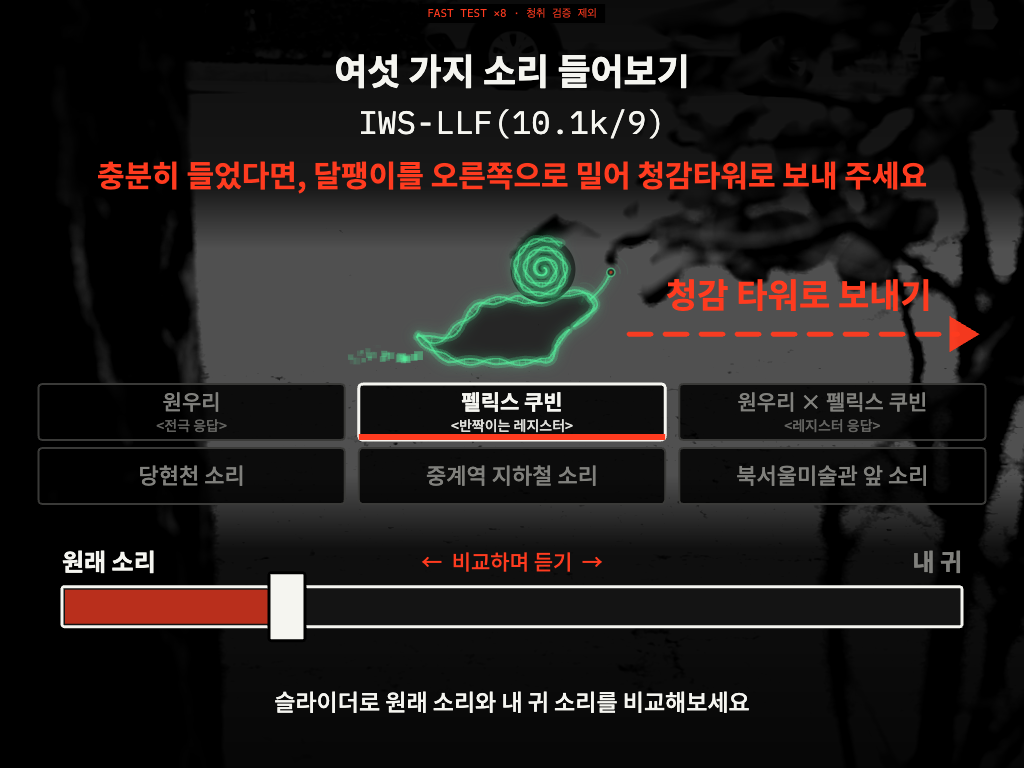
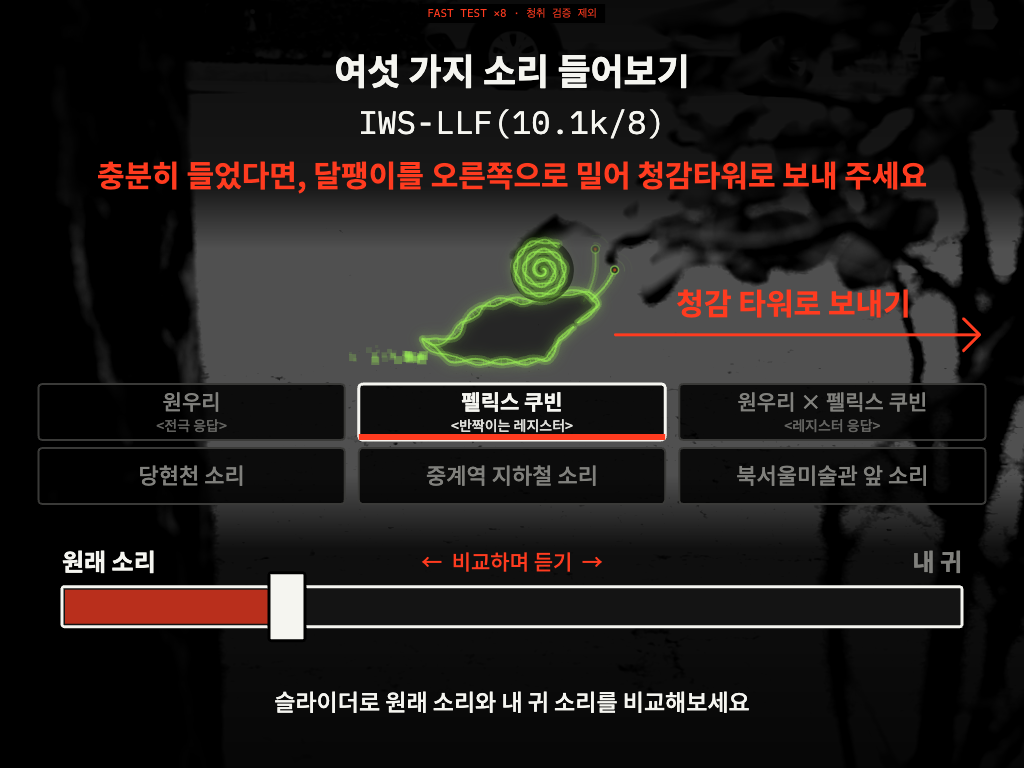
feat(music): minimal line arrow for 'send to the Hearing Tower'

Changed region(s): [[0.3438, 0.3125, 0.9688, 0.5], [0.5938, 0.1562, 0.625, 0.1875]]

diff --git a/docs/music-tower-update-2026-11-22.html b/docs/music-tower-update-2026-11-22.html
@@ -8,7 +8,7 @@
 <tr><td style="border:1px solid #999;padding:5px 8px">청감타워 안내가 나오는 때</td><td style="border:1px solid #999;padding:5px 8px">감상 시작 60초 뒤</td><td style="border:1px solid #999;padding:5px 8px">고른 곡을 처음부터 <b>한 번 끝까지</b> 들었을 때. 곡을 바꾸면 그 곡 기준으로 다시 셈. 한 번 뜨면 곡을 바꿔도 남음</td><td style="border:1px solid #999;padding:5px 8px">작가·사용자</td></tr>
 <tr><td style="border:1px solid #999;padding:5px 8px">곡을 안 고르고 자동으로 넘어갈 때</td><td style="border:1px solid #999;padding:5px 8px">60초 뒤</td><td style="border:1px solid #999;padding:5px 8px">여섯 곳을 한 바퀴(15초 × 6 = 90초) 돈 뒤</td><td style="border:1px solid #999;padding:5px 8px">Claude 초안</td></tr>
 <tr><td style="border:1px solid #999;padding:5px 8px">안내 문구 크기</td><td style="border:1px solid #999;padding:5px 8px">23px</td><td style="border:1px solid #999;padding:5px 8px">빨간 굵은 30px (영어처럼 두 줄이 되면 25px)</td><td style="border:1px solid #999;padding:5px 8px">작가(크게) · 크기는 Claude</td></tr>
-<tr><td style="border:1px solid #999;padding:5px 8px">화살표</td><td style="border:1px solid #999;padding:5px 8px">달팽이 옆 작은 →</td><td style="border:1px solid #999;padding:5px 8px">다 들은 뒤 달팽이 오른쪽에 <b>‘———&gt; 청감 타워로 보내기’</b>: 오른쪽으로 흐르는 빨간 점선 화살표와 34px 글자. 0.9초 동안 늘어나며 등장, 은은하게 깜빡임. 그 전에는 예전처럼 작은 →</td><td style="border:1px solid #999;padding:5px 8px">작가(화살표) · 모양은 Claude</td></tr>
+<tr><td style="border:1px solid #999;padding:5px 8px">화살표</td><td style="border:1px solid #999;padding:5px 8px">달팽이 옆 작은 →</td><td style="border:1px solid #999;padding:5px 8px">다 들은 뒤 달팽이 오른쪽에 <b>미니멀한 화살표 + ‘청감 타워로 보내기’</b>(30px): 가는 빨간 선 하나와 열린 화살촉. 0.9초 동안 오른쪽으로 뻗으며 등장하고, 그 뒤 화살촉 쪽이 오른쪽으로 살짝(8px) 까딱임. (점선 ‘———&gt;’은 글자처럼 보이고, 면 화살표·빛 효과는 과해서 사용자 지시로 미니멀하게) 그 전에는 예전처럼 작은 →</td><td style="border:1px solid #999;padding:5px 8px">작가(화살표) · 모양은 Claude</td></tr>
 <tr><td style="border:1px solid #999;padding:5px 8px">음성 안내</td><td style="border:1px solid #999;padding:5px 8px">없음</td><td style="border:1px solid #999;padding:5px 8px">다 들은 순간 한 번 <b>자막만</b> 나옴(<code>m9-8</code>). 녹음이 오면 파일만 넣으면 소리도 나옴. 터치를 막지 않아 바로 밀어 보내도 됨</td><td style="border:1px solid #999;padding:5px 8px">사용자(녹음 전 자막만)</td></tr>
 <tr><td style="border:1px solid #999;padding:5px 8px">아래쪽 도움말</td><td style="border:1px solid #999;padding:5px 8px">‘달팽이를 오른쪽으로 밀면 청감타워로 가요’ 항상</td><td style="border:1px solid #999;padding:5px 8px">큰 안내가 뜬 뒤에는 같은 말이라 뺌</td><td style="border:1px solid #999;padding:5px 8px">Claude</td></tr>
 <tr><td style="border:1px solid #999;padding:5px 8px">분석 화면 ‘음악 들으러 가기 →’</td><td style="border:1px solid #999;padding:5px 8px">보통 굵기 최대 24px</td><td style="border:1px solid #999;padding:5px 8px">굵게 최대 34px, 밑줄 굵게</td><td style="border:1px solid #999;padding:5px 8px">작가 요청 · 크기는 Claude</td></tr>

diff --git a/visuals.js b/visuals.js
@@ -1590,25 +1590,25 @@ function drawMusic(L) {
   drawResultControls(L, a);
 }
 
-// 달팽이 오른쪽에서 화면 오른쪽 끝(포탈이 열리는 쪽)까지 흐르는 점선 화살표와 '청감 타워로 보내기' (모양·크기는 Claude가 정함)
+// 달팽이 오른쪽에서 화면 오른쪽 끝(포탈이 열리는 쪽)까지 뻗는 화살표와 '청감 타워로 보내기' (모양·크기는 Claude가 정함).
+// 미니멀하게(11/22 사용자 지시): 가는 빨간 선 하나 + 열린 화살촉. 점선·빛 효과 없이, 화살촉 쪽만 오른쪽으로 살짝 까딱임
 let towerArrowAt = -1;
 function drawTowerArrow(L, a) {
   if (towerArrowAt < 0) towerArrowAt = millis();
   const grow = constrain((millis() - towerArrowAt) / 900, 0, 1), ease = 1 - Math.pow(1 - grow, 3);
-  const x0 = lastShape.cx + cur.R0 * 2.4, xEnd = width - L.m - 6, y = lastShape.cy;
+  const x0 = lastShape.cx + cur.R0 * 2.4, xEnd = width - L.m - 14, y = lastShape.cy;
   if (xEnd - x0 < 80) return;
-  const x1 = lerp(x0, xEnd, ease), pulse = 0.75 + 0.25 * Math.sin(millis() / 320);
-  const ctx = drawingContext, col = rgba(COLORS.accent, (a / 255) * pulse);
+  const nudge = grow < 1 ? 0 : (0.5 - 0.5 * Math.cos((millis() - towerArrowAt) / 520)) * 8; // 다 뻗은 뒤 0~8px 왔다 갔다
+  const x1 = lerp(x0, xEnd, ease) + nudge;
+  const ctx = drawingContext;
   ctx.save();
-  ctx.strokeStyle = col; ctx.fillStyle = col; ctx.lineWidth = 5; ctx.lineCap = 'round';
-  ctx.setLineDash([22, 14]); ctx.lineDashOffset = -millis() / 18; // 점선이 오른쪽으로 흐름
-  ctx.beginPath(); ctx.moveTo(x0, y); ctx.lineTo(x1 - 22, y); ctx.stroke();
-  ctx.setLineDash([]);
-  ctx.beginPath(); ctx.moveTo(x1, y); ctx.lineTo(x1 - 30, y - 18); ctx.lineTo(x1 - 30, y + 18); ctx.closePath(); ctx.fill();
+  ctx.strokeStyle = rgba(COLORS.accent, a / 255); ctx.lineWidth = 3; ctx.lineCap = 'round'; ctx.lineJoin = 'round';
+  ctx.beginPath(); ctx.moveTo(x0, y); ctx.lineTo(x1, y); ctx.stroke();
+  ctx.beginPath(); ctx.moveTo(x1 - 16, y - 16); ctx.lineTo(x1, y); ctx.lineTo(x1 - 16, y + 16); ctx.stroke();
   ctx.restore();
   const text = t('music.towerArrow'), room = xEnd - x0;
-  const size = min(34, 34 * room / max(1, textW(text, 34, 700)));
-  label(text, (x0 + xEnd) / 2, y - 22, { size, weight: 700, c: COLORS.accent, a: a * ease, align: CENTER, valign: BOTTOM });
+  const size = min(30, 30 * room / max(1, textW(text, 30, 700)));
+  label(text, (x0 + xEnd) / 2, y - 16, { size, weight: 700, c: COLORS.accent, a: a * ease, align: CENTER, valign: BOTTOM });
 }
 
 function drawResultControls(L, a) {

diff --git a/CLAUDE.md b/CLAUDE.md
@@ -27,7 +27,7 @@
    - 완성 장면(밈 FX) → "저 됐어요!" → **"자, 당신의 청감 코드는…! 두두둥!"**(드럼롤) → 화면이 바뀌고 **코드만 크게**(효과음 뒤 한/영 녹음 조각으로 실제 코드를 읽음, 최소 2.6초) → 코드가 위로 올라가고 **동물 유형 제목('○○ 달팽이예요!', 11/22 원우리 작가 확정)과 한 줄 소개**, **항목별 분석 7줄**, 그 아래 빨간 **행동 한 줄**이 하나씩 나타남 → **10초 뒤 "이제 음악을 들으러 가볼까요?"** → 보고서 아래 '음악 들으러 가기 →' 클릭으로 감상 이동(11/22 작가 요청으로 글자 키움, 굵게 최대 34px).
    - 항목 순서: ⑦ 귀 손잡이 · ②③ 저음/고음 선호 · ⑤ 들리는 높이(+나이) · ① 크기 · ⑥ 가운데 · ④ 음역 · ⑧ 바탕음/배음. **나이 표현은 30대 이하로 나올 때만**(사용자 확정. 기준 16k = 10대, 15k = 20대, 14k = 30대는 Claude 초안, `copy.js`의 `HEARING_AGE`).
    - `m9-4`("자, 당신의 청감 코드는…! 두두둥!")는 11/13 녹음(`last_003`/`last_004`)으로 나오고 드럼롤 효과음도 그대로 함께 나옵니다(사용자 확정). `m9-5`(짜잔)·`m9-6`(특징 소개)은 녹음이 없어 **11/15에 안내에서 뺐습니다**(사용자 지시. 현재 코드 낭독은 `runResultReveal()`에서 `HearingCodeVoice.play()`로 연결). `m9-7`은 녹음이 있습니다(`last_001`/`last_002`의 첫 문장 "이제 음악을 들으러 가볼까요?"만 사용). "검사해 주셔서 감사합니다"(`m9-2`)는 뺐습니다(사용자 확정).
-5. **감상(MUSIC)** (11/13 원우리 작가 지시): **여섯 소리**를 3칸 × 2줄 버튼으로 고릅니다. 윗줄 = 원우리 / 펠릭스 쿠빈 / 원우리 × 펠릭스 쿠빈이고 **이름 아래에 곡 제목을 작게** 적습니다(<전극 응답> / <반짝이는 레지스터> / <레지스터 응답>, 11/15 작가 지시). 아랫줄 = 북서울 소리 3개로 **'당현천 소리 / 중계역 지하철 소리 / 북서울미술관 앞 소리'**라고 적습니다(water, train-go, car-move). 고르면 달팽이가 그 칸 위로 기어가 듣습니다. 슬라이더는 '원래 소리 ↔ 내 귀'('EQ' 글자 삭제)이고 가운데에 **'← 비교하며 듣기 →'**를 적습니다. **작가 곡이 아직 없어 윗줄 세 칸은 안 쓰던 북서울 녹음(water-road, car, walk-stair)을 임시로 겁니다**(사용자 확정). 곡과 스펙트로그램 영상은 11/20쯤 올 예정이고, `tour.js`의 `TOUR_PLACES` 위 세 줄의 경로만 바꾸면 됩니다. **음악을 다 들은 것 같을 때**(11/22 작가·사용자 결정: 고른 곡을 처음부터 한 번 끝까지. 곡을 바꾸면 다시 셈, 한 번 뜨면 남음. 곡을 안 고르고 자동으로 돌 때는 여섯 곳 한 바퀴 = 90초, Claude가 정함. `tour.js`의 `listenedEnough`) 코드 아래 문구가 빨간 큰 글씨 '충분히 들었다면, 달팽이를 오른쪽으로 밀어 청감타워로 보내 주세요'로 바뀌고, 달팽이 오른쪽에 **흐르는 빨간 점선 화살표 '———> 청감 타워로 보내기'**가 나타나며(`visuals.js`의 `drawTowerArrow`, 모양은 Claude가 정함) 안내 `m9-8` '음악 잘 들으셨나요? 이제 저를 오른쪽으로 쭉 밀어서 청감타워로 보내 주세요!'가 한 번 나옵니다. **`m9-8`은 차민휘 님이 화살표 화면을 보고 녹음해 주기로 해서 그 전까지 자막만**(사용자 선택, `VOICE_PENDING`. 문구는 Claude 초안, 녹음에 맞춰 바꿈). 그 전에는 작은 → 만 보입니다.
+5. **감상(MUSIC)** (11/13 원우리 작가 지시): **여섯 소리**를 3칸 × 2줄 버튼으로 고릅니다. 윗줄 = 원우리 / 펠릭스 쿠빈 / 원우리 × 펠릭스 쿠빈이고 **이름 아래에 곡 제목을 작게** 적습니다(<전극 응답> / <반짝이는 레지스터> / <레지스터 응답>, 11/15 작가 지시). 아랫줄 = 북서울 소리 3개로 **'당현천 소리 / 중계역 지하철 소리 / 북서울미술관 앞 소리'**라고 적습니다(water, train-go, car-move). 고르면 달팽이가 그 칸 위로 기어가 듣습니다. 슬라이더는 '원래 소리 ↔ 내 귀'('EQ' 글자 삭제)이고 가운데에 **'← 비교하며 듣기 →'**를 적습니다. **작가 곡이 아직 없어 윗줄 세 칸은 안 쓰던 북서울 녹음(water-road, car, walk-stair)을 임시로 겁니다**(사용자 확정). 곡과 스펙트로그램 영상은 11/20쯤 올 예정이고, `tour.js`의 `TOUR_PLACES` 위 세 줄의 경로만 바꾸면 됩니다. **음악을 다 들은 것 같을 때**(11/22 작가·사용자 결정: 고른 곡을 처음부터 한 번 끝까지. 곡을 바꾸면 다시 셈, 한 번 뜨면 남음. 곡을 안 고르고 자동으로 돌 때는 여섯 곳 한 바퀴 = 90초, Claude가 정함. `tour.js`의 `listenedEnough`) 코드 아래 문구가 빨간 큰 글씨 '충분히 들었다면, 달팽이를 오른쪽으로 밀어 청감타워로 보내 주세요'로 바뀌고, 달팽이 오른쪽에 **미니멀한 화살표(가는 빨간 선 + 열린 화살촉, 오른쪽으로 살짝 까딱임)와 '청감 타워로 보내기'**가 나타나며(`visuals.js`의 `drawTowerArrow`, 모양은 Claude가 정함. 점선 '———>'은 글자 같고 면 화살표·빛은 과해서 사용자 지시로 미니멀하게) 안내 `m9-8` '음악 잘 들으셨나요? 이제 저를 오른쪽으로 쭉 밀어서 청감타워로 보내 주세요!'가 한 번 나옵니다. **`m9-8`은 차민휘 님이 화살표 화면을 보고 녹음해 주기로 해서 그 전까지 자막만**(사용자 선택, `VOICE_PENDING`. 문구는 Claude 초안, 녹음에 맞춰 바꿈). 그 전에는 작은 → 만 보입니다.
 6. **보내기 → QR·크레딧 화면** (11/13): 달팽이를 오른쪽으로 밀면 **오른쪽에 열린 포탈로 기어가 빨려 들어가고**(11/15 작가 지시. 청감타워에서 달팽이가 나오는 포탈과 같은 생김새, `visuals.js`의 `sendPortal / drawSendPortal`. 60초 전에도 가능), **QR 코드 + "휴대폰으로 내 달팽이와 다른 귀의 소리를 들어보세요" + 작품·전시 크레딧**(한/영 각각, `copy.js`의 `TOWER_CREDITS`, 작가 전달 문구 그대로)이 뜹니다. **45초 뒤 또는 화면을 누르면** 첫 화면으로 돌아갑니다(사용자 확정. 뜨고 1.5초 동안은 누름 무시). QR은 `CloudConfig.MOBILE_URL`(`https://allearsare.love/`, 11/21 새 도메인. 관객용 휴대폰 화면이 첫 화면, 전시장 TV는 `/wall/`)에 `ear`(클라우드 ID, 있을 때만)·`code`(청감 코드)·`hue`, 영어 관람객이면 `lang=en`을 붙인 주소입니다(`tour.js`의 `towerMobileUrl`, 화면은 `visuals.js`의 `towerCard`, 생성은 `lib/qrcode.min.js`). 업로드를 기다리지 않고, 다시 시작하면 QR을 지웁니다. 클라우드로 전송합니다(1-6).
 
 ### 1-2. 조작 (첫 화면, 음성 크기 슬라이더, 감상 화면 말고 버튼 없음)
@@ -302,4 +302,4 @@ node tests/e2e/stall.mjs /tmp/svart-stall
 
 - **11/22 (6차)** 사용자 지적('포탈로 보내고 크레딧 뜰 때 깔끔하지 않음') 수정: 포탈이 닫히는 순간 달팽이가 제자리에 다시 그려져 크레딧이 반투명으로 떠오르는 동안 QR 위로 비치던 문제(`visuals.js`, 보내기 진행 100% 뒤에는 달팽이를 그리지 않음). 크레딧 화면은 바탕이 먼저 검게 덮고(0.45초) 글자·QR이 0.25초 뒤 살짝 올라오며 나타나게(`index.html`의 `tower-bg`·`tower-in`, Claude가 정함). 실제 속도 연속 캡처로 전·후 확인, 한/영 빠른 flow·stall 통과.
 
-- **11/22 (7차)** 작가 요청: 감상 화면에서 곡을 한 번 끝까지 들으면 청감타워 안내를 크게(30px, 영어 두 줄이면 25px) + 달팽이 옆 '———> 청감 타워로 보내기' 흐르는 점선 화살표 + 자막만 있는 안내 `m9-8`(녹음은 차민휘 님이 화면을 보고 제작 예정). 예전 60초 타이머(`TOWER_PROMPT_MS`) 삭제. '음악 들으러 가기' 글자 키움. 한/영 빠른 flow(곡 끝 3초 전에는 안 뜨고 끝나면 뜨는지, 자막 확인)·stall 통과, 1024×768·704 한/영 스크린샷 확인.
+- **11/22 (7차)** 작가 요청: 감상 화면에서 곡을 한 번 끝까지 들으면 청감타워 안내를 크게(30px, 영어 두 줄이면 25px) + 달팽이 옆 '청감 타워로 보내기' 미니멀한 화살표(점선 → 면 화살표 → 가는 선 화살표, 사용자 지시) + 자막만 있는 안내 `m9-8`(녹음은 차민휘 님이 화면을 보고 제작 예정). 예전 60초 타이머(`TOWER_PROMPT_MS`) 삭제. '음악 들으러 가기' 글자 키움. 한/영 빠른 flow(곡 끝 3초 전에는 안 뜨고 끝나면 뜨는지, 자막 확인)·stall 통과, 1024×768·704 한/영 스크린샷 확인.
